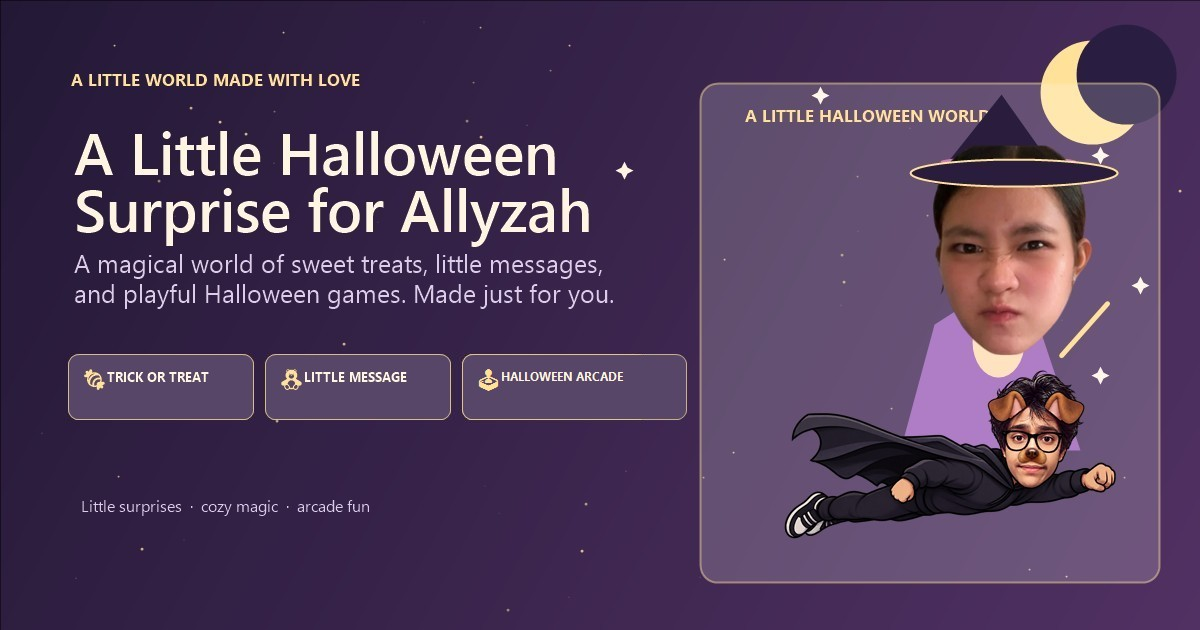
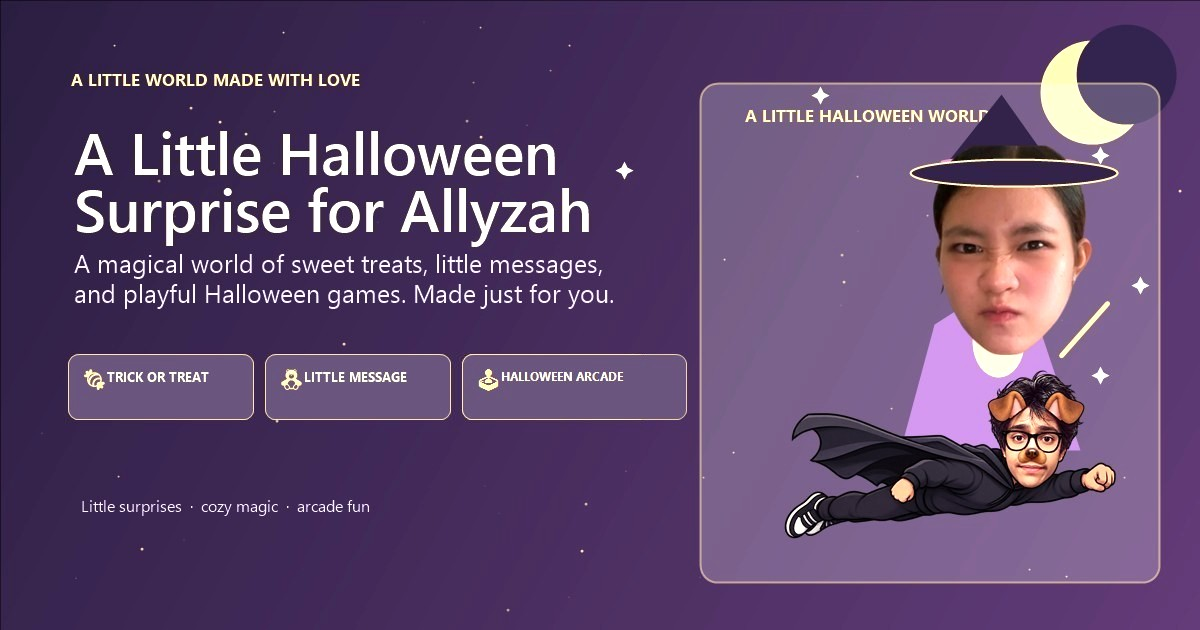
For my bebe

diff --git a/flappy.js b/flappy.js
@@ -5,8 +5,8 @@
   if (!section || !canvas) return;
 
   const ctx = canvas.getContext("2d");
-  const W = 960;
-  const H = 540;
+  let W = 960;
+  let H = 540;
   const playerImage = new Image();
   let hasPlayerImage = false;
   playerImage.onload = () => { hasPlayerImage = true; };
@@ -67,25 +67,41 @@
   let obstacleNumber = 0;
   let obstacles = [];
   let beams = [];
-  let player = { x: 205, y: 270, vy: 0, radius: 30, rotation: 0 };
+  let player = { x: W * .215, y: H * .5, vy: 0, radius: 30, rotation: 0 };
 
 
-  const stars = Array.from({ length: 45 }, (_, i) => {
-    const random = seed => {
-      const value = Math.sin((i + 1) * 127.1 + seed * 311.7) * 43758.5453;
-      return value - Math.floor(value);
-    };
-    return {
-      x: random(1) * W,
-      y: random(2) * 390,
-      r: 1.1 + random(3) * .9,
-      phase: random(4) * Math.PI * 2
-    };
-  });
+  function createStars() {
+    return Array.from({ length: 55 }, (_, i) => {
+      const random = seed => {
+        const value = Math.sin((i + 1) * 127.1 + seed * 311.7) * 43758.5453;
+        return value - Math.floor(value);
+      };
+      return { x: random(1) * W, y: random(2) * H * .82, r: 1.1 + random(3) * .9, phase: random(4) * Math.PI * 2 };
+    });
+  }
+  let stars = createStars();
 
   function resizeCanvas() {
     const rect = canvas.getBoundingClientRect();
     if (!rect.width || !rect.height) return;
+    const portrait = rect.height > rect.width;
+    const nextW = portrait ? 540 : 960;
+    const nextH = portrait ? 960 : 540;
+    if (nextW !== W || nextH !== H) {
+      const scaleX = nextW / W, scaleY = nextH / H;
+      W = nextW; H = nextH;
+      player.x *= scaleX; player.y *= scaleY; player.vy *= scaleY;
+      for (const obstacle of obstacles) {
+        obstacle.x *= scaleX;
+        if (Number.isFinite(obstacle.speed)) obstacle.speed *= scaleX;
+        for (const key of ["y", "currentY", "gapY", "currentGapY", "move"]) if (Number.isFinite(obstacle[key])) obstacle[key] *= scaleY;
+      }
+      for (const beam of beams) {
+        for (const key of ["x", "startX", "targetX", "vx"]) if (Number.isFinite(beam[key])) beam[key] *= scaleX;
+        for (const key of ["y", "startY", "targetY", "vy"]) if (Number.isFinite(beam[key])) beam[key] *= scaleY;
+      }
+      stars = createStars();
+    }
     const dpr = Math.min(window.devicePixelRatio || 1, 2);
     canvas.width = Math.round(rect.width * dpr);
     canvas.height = Math.round(rect.height * dpr);
@@ -112,7 +128,7 @@
     nextBeam = 4.4;
     obstacles = [];
     beams = [];
-    player = { x: 205, y: 270, vy: 0, radius: 30, rotation: 0 };
+    player = { x: W * .215, y: H * .5, vy: 0, radius: 30, rotation: 0 };
     ui.score.textContent = "0";
     ui.pause.textContent = "Ⅱ Pause";
     ui.hit.classList.remove("show");
@@ -130,7 +146,7 @@
   }
 
   function flap() {
-    player.vy = -350;
+    player.vy = -350 * (H / 540);
   }
 
   function pauseGame() {
@@ -177,7 +193,7 @@
 
   function spawnObstacle() {
     obstacleNumber++;
-    const speed = Math.min(330, 238 + score * 3);
+    const speed = Math.min(330, 238 + score * 3) * (H > W ? .78 : 1);
     const kind = obstacleNumber % 3;
     if (kind === 1) {
       const gap = Math.max(150, 188 - score * 1.5);
@@ -186,7 +202,7 @@
         x: W + 45,
         width: 76,
         gap,
-        gapY: 165 + Math.random() * 205,
+          gapY: H * .3 + Math.random() * H * .38,
         move: score > 2 ? 18 + Math.min(score, 14) : 0,
         phase: Math.random() * 6.28,
         speed,
@@ -196,7 +212,7 @@
       obstacles.push({
         type: "pumpkin",
         x: W + 35,
-        y: 90 + Math.random() * 340,
+        y: H * .18 + Math.random() * H * .62,
         radius: 28,
         speed: speed + 12,
         phase: Math.random() * 6.28,
@@ -206,7 +222,7 @@
       obstacles.push({
         type: "branch",
         x: W + 40,
-        y: 105 + Math.random() * 320,
+        y: H * .2 + Math.random() * H * .6,
         width: 94,
         height: 22,
         speed: speed + 4,
@@ -226,9 +242,9 @@
   function update(dt) {
     elapsed += dt;
     const speedBoost = Math.min(score * 2.2, 55);
-    player.vy += 930 * dt;
+    player.vy += 930 * (H / 540) * dt;
     player.y += player.vy * dt;
-    player.rotation = Math.max(-.48, Math.min(.95, player.vy / 520));
+    player.rotation = Math.max(-.48, Math.min(.95, player.vy / (520 * H / 540)));
 
     if (elapsed >= nextSpawn) {
       spawnObstacle();
@@ -428,21 +444,22 @@
 
     ctx.fillStyle = "#ffe5a6";
     ctx.beginPath();
-    ctx.arc(790, 95, 43, 0, Math.PI * 2);
+    ctx.arc(W * .82, H * .18, 43, 0, Math.PI * 2);
     ctx.fill();
     ctx.fillStyle = "#38264f";
     ctx.beginPath();
-    ctx.arc(809, 79, 42, 0, Math.PI * 2);
+    ctx.arc(W * .84, H * .15, 42, 0, Math.PI * 2);
     ctx.fill();
 
-    drawCloud(155 - (elapsed * 12) % 1080, 120, .8);
-    drawCloud(520 - (elapsed * 8) % 1080, 215, .55);
-    drawHill(0, 445, 360, 60, "#514064");
-    drawHill(310, 461, 380, 48, "#43375e");
-    drawHill(670, 448, 430, 65, "#514064");
-    drawPumpkin(78, H - 38, 23, 0);
-    drawPumpkin(875, H - 38, 28, 0);
-    drawBat(600 - (elapsed * 35) % 1100, 90 + Math.sin(elapsed) * 18, .7);
+    const cloudSpan = W + 180;
+    drawCloud(75 + W * .22 - (elapsed * 12) % cloudSpan, H * .23, .8);
+    drawCloud(W * .68 - (elapsed * 8) % cloudSpan, H * .4, .55);
+    drawHill(0, H - 95, W * .42, 60, "#514064");
+    drawHill(W * .3, H - 78, W * .42, 48, "#43375e");
+    drawHill(W * .66, H - 92, W * .48, 65, "#514064");
+    drawPumpkin(W * .08, H - 38, 23, 0);
+    drawPumpkin(W * .91, H - 38, 28, 0);
+    drawBat(W * .62 - (elapsed * 35) % (W + 80), H * .17 + Math.sin(elapsed) * 18, .7);
     ctx.fillStyle = "#322746";
     ctx.fillRect(0, H - 30, W, 30);
     ctx.fillStyle = "#907252";
@@ -450,7 +467,7 @@
   }
 
   function drawCloud(x, y, scale) {
-    if (x < -120) x += 1080;
+    if (x < -120) x += W + 180;
     ctx.save();
     ctx.translate(x, y);
     ctx.scale(scale, scale);
@@ -584,7 +601,7 @@
   }
 
   function witchPosition() {
-    return { x: 825, y: 190 + Math.sin(elapsed * 1.25) * 35 };
+    return { x: W - 135, y: H * .35 + Math.sin(elapsed * 1.25) * Math.min(35, H * .035) };
   }
 
   function drawWitch() {

diff --git a/flappy.css b/flappy.css
@@ -34,7 +34,7 @@
 @media(max-width:650px){
   .flappy-view{margin-inline:-18px;padding:16px 14px 30px;min-width:0}
   .flappy-shell{width:100%;min-width:0}
-  .flappy-stage{width:calc(100% + 28px);margin:0 0 0 -14px;min-height:0;border-radius:12px;aspect-ratio:16/9}
+  .flappy-stage{width:min(100%,430px);height:auto;max-height:78svh;min-height:0;margin:0 auto;border-radius:20px;aspect-ratio:9/16}
   #flappyCanvas{width:100%;height:100%}
   .flappy-card{width:100%;max-width:390px;padding:16px 14px}
   .flappy-card p:not(.eyebrow){font-size:12px;line-height:1.45}
@@ -45,6 +45,14 @@
   .pause-button{margin:0;padding:4px 7px;font-size:10px;white-space:nowrap}
   .flappy-help,.flappy-asset-note{padding-inline:2px;line-height:1.5}
   .flappy-help{font-size:10px}
+}
+@media(max-width:430px){
+  .flappy-stage{width:min(100%,430px);aspect-ratio:9/16}
+  .flappy-hud{left:9px;right:9px;top:10px}
+  .score-group{gap:5px}
+  .score-pill{padding:5px 8px;font-size:9px}
+  .score-pill strong{font-size:15px;margin-left:4px}
+  .pause-button{padding:5px 8px;font-size:11px}
 }
 @media(prefers-reduced-motion:reduce){.witch-badge{animation:none}.flappy-stage.shake{animation:none}}
 
